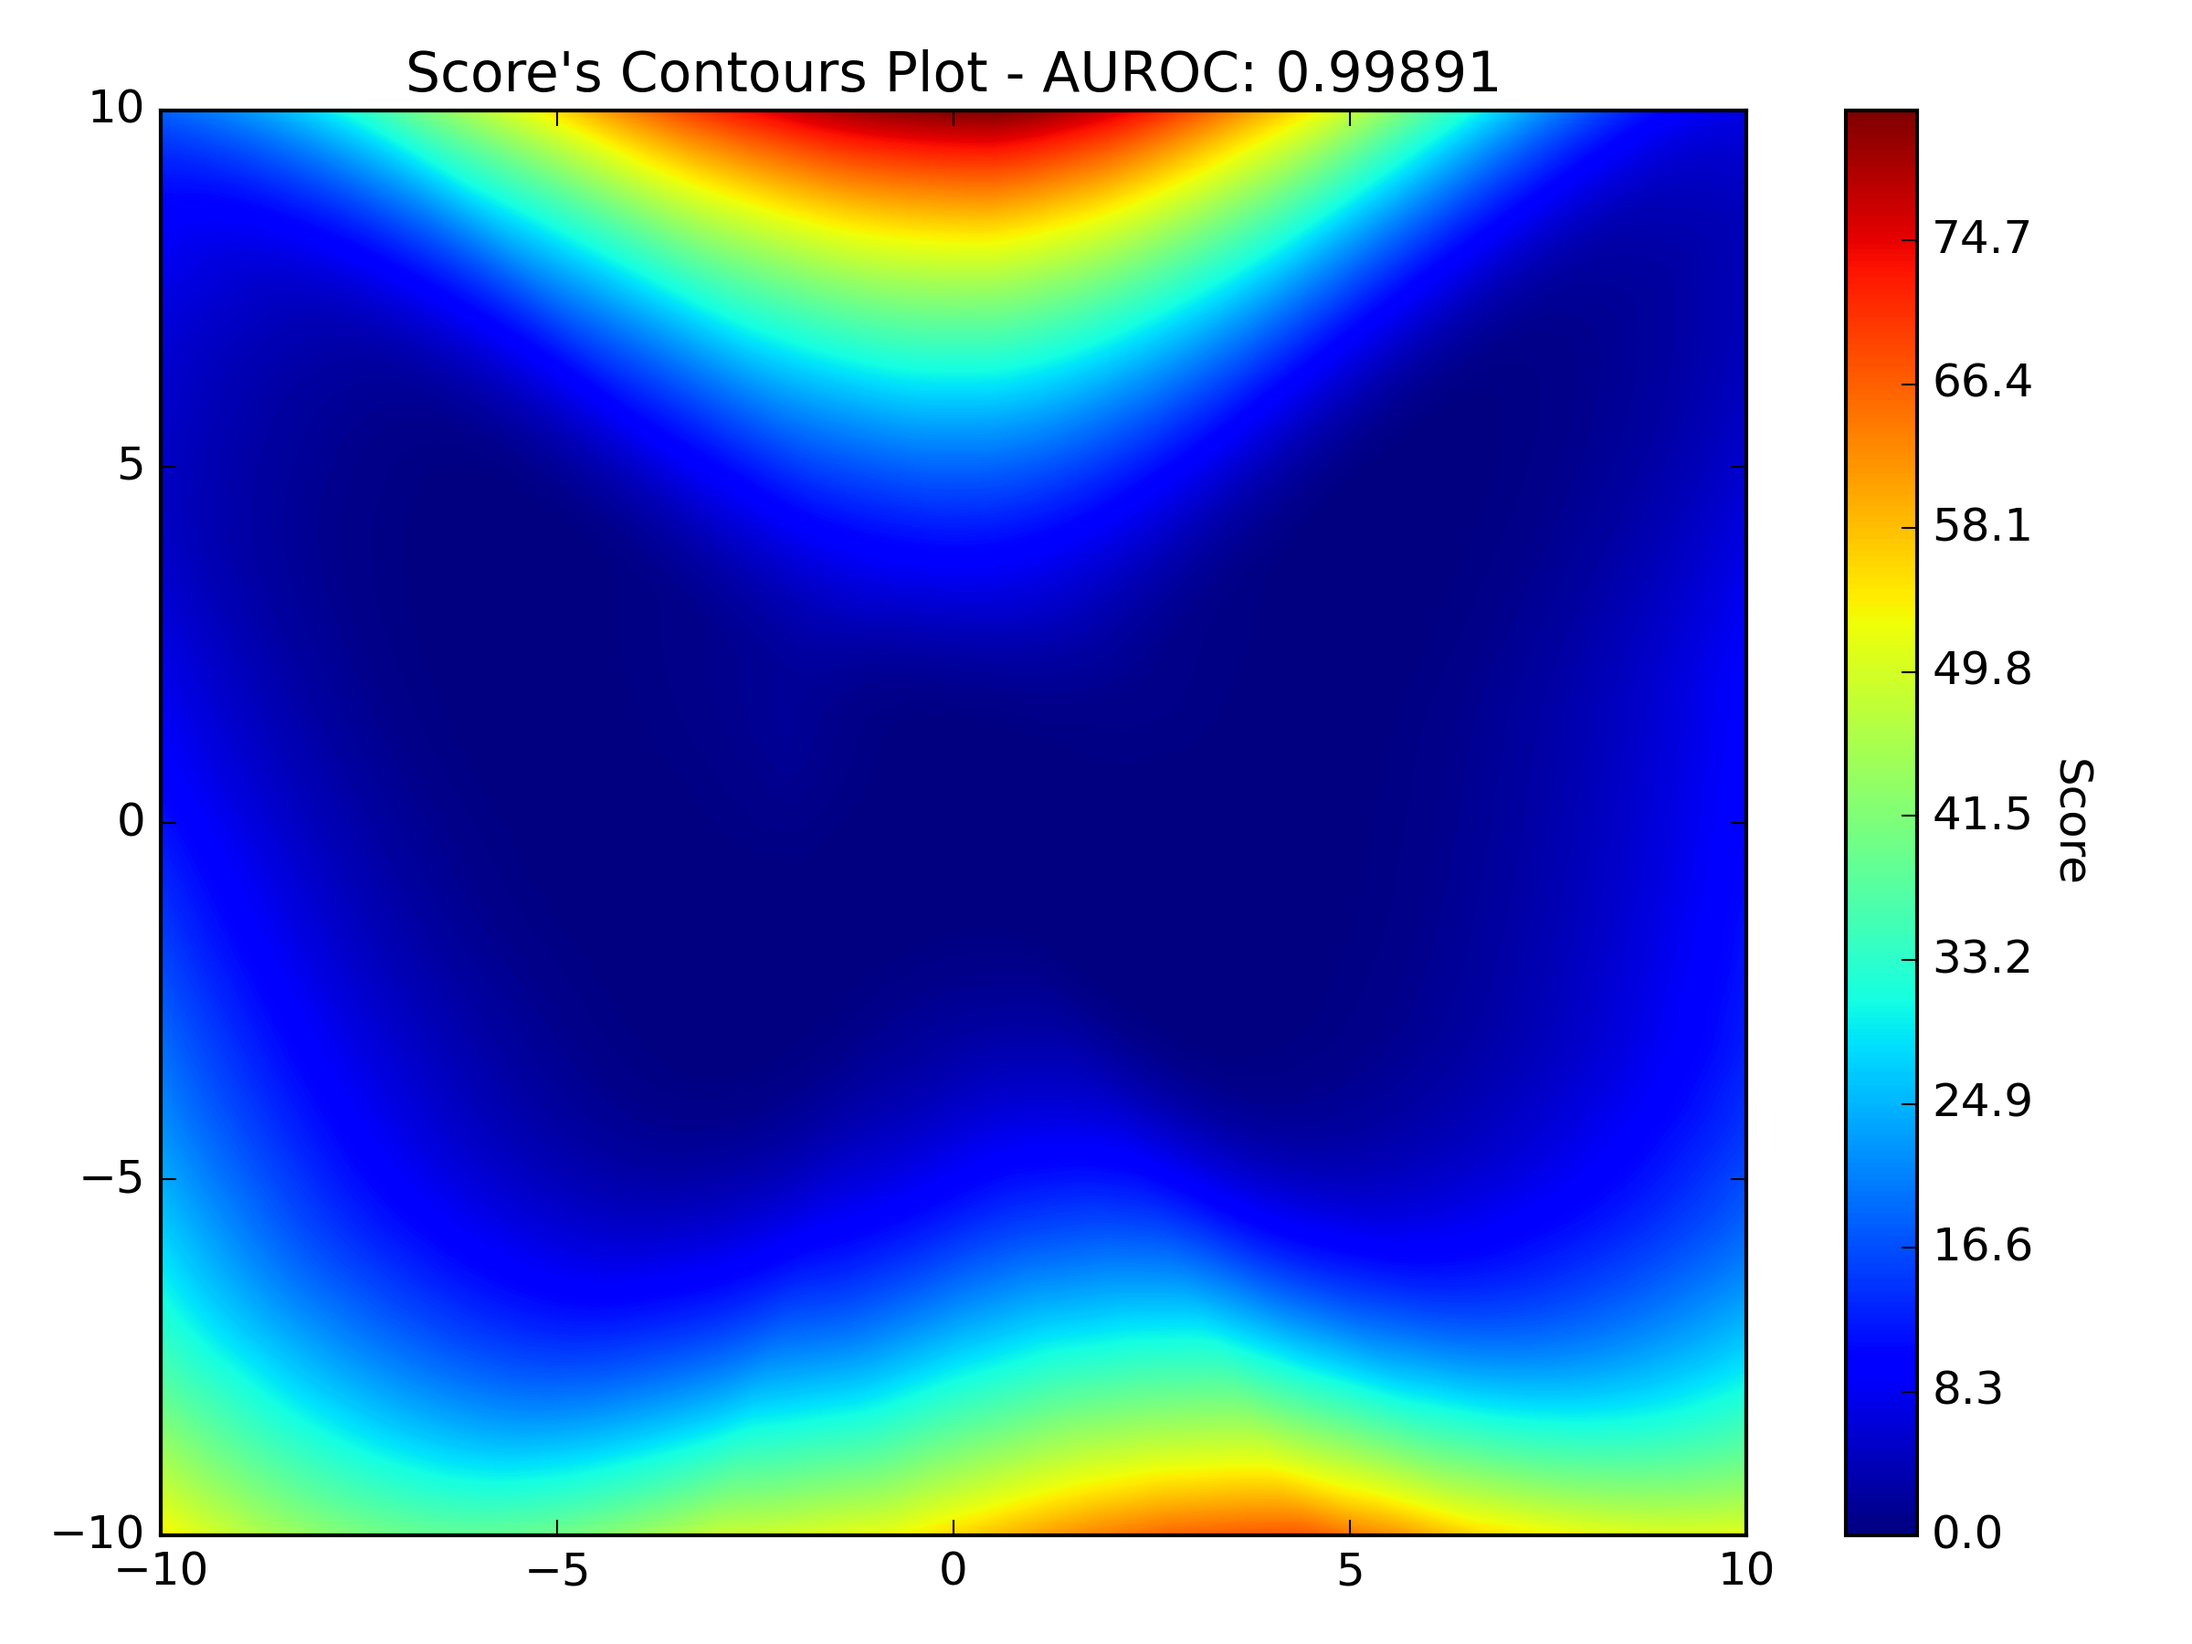
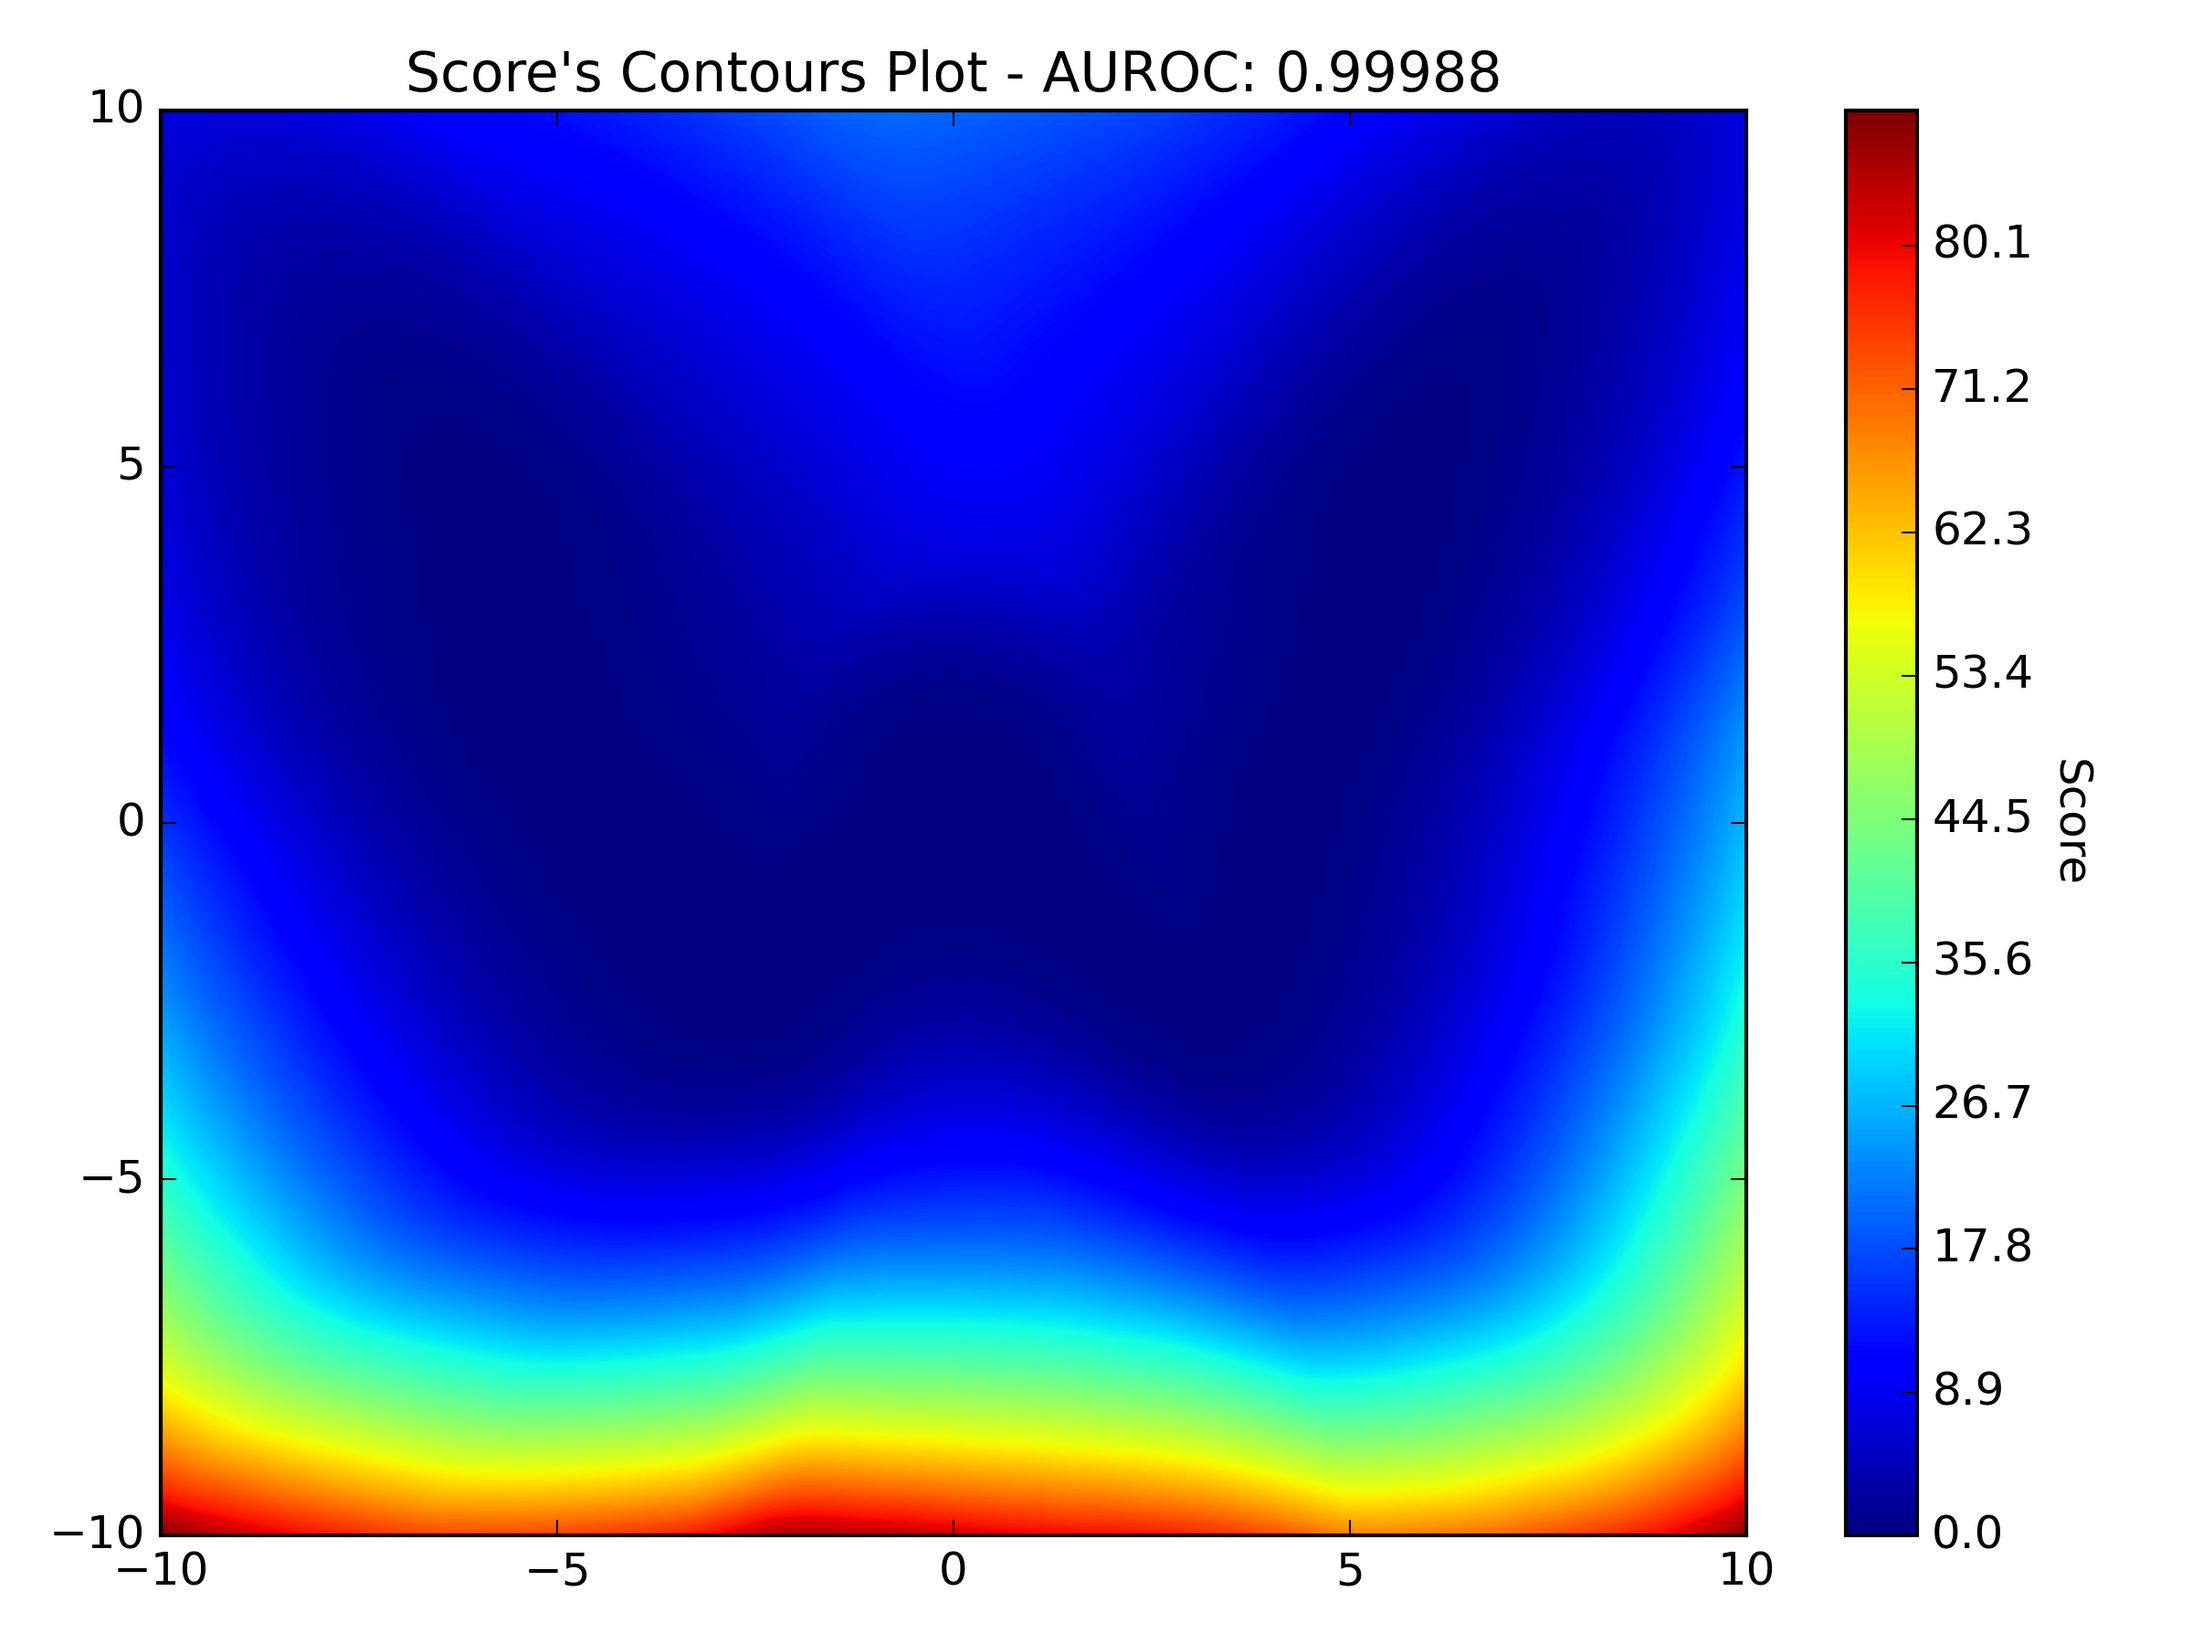
New experiments

diff --git a/deep-semisup-anom-det/data.py b/deep-semisup-anom-det/data.py
@@ -64,12 +64,12 @@ def get_loaders(dataset='gaussian'):
         train_ds = CustomDataset(train_samples, train_targets)
         test_ds = CustomDataset(test_samples, test_targets)
     else:
-        samples, targets, test_samples, test_targets = load_data(dataset, ratio_normal=0.01, ratio_anomaly=0.0)
+        samples, targets, test_samples, test_targets = load_data(dataset, ratio_normal=0.2, ratio_anomaly=0.4)
 
         train_ds = CustomDataset(samples, targets)
         test_ds = CustomDataset(test_samples, test_targets)
 
-        if False:
+        if True:
             utils.plot(samples, targets, 'train_samples', dataset)
             utils.plot(test_samples, test_targets, 'test_samples', dataset)
 

diff --git a/deep-semisup-anom-det/main.py b/deep-semisup-anom-det/main.py
@@ -38,7 +38,7 @@ def pretrain(net, loader, epochs=1):
     return c
 
 
-def train(net, loader, c, epochs=1, eta=1.0, eps=1e-9):
+def train(net, loader, c, epochs=1, eta=2.0, eps=1e-9):
     device = torch.device('cuda' if torch.cuda.is_available() else 'cpu')
     opt = optim.Adam(net.parameters(), lr=0.001, weight_decay=1e-6)
     milestones = [int(epochs * 0.75), int(epochs * 0.9)]

diff --git a/deep-semisup-anom-det/utils.py b/deep-semisup-anom-det/utils.py
@@ -225,5 +225,5 @@ def scores_contour(net, c, test_samples, test_targets, auroc, dataset, add_point
         ax.legend(loc='lower center', ncol=2, bbox_to_anchor=(0.5, -0.15))
 
     plt.tight_layout()
-    plt.savefig(f'results/{dataset}/scores_contour_unsup', dpi=300)
+    plt.savefig(f'results/{dataset}/scores_contour', dpi=300)
     # plt.show()
